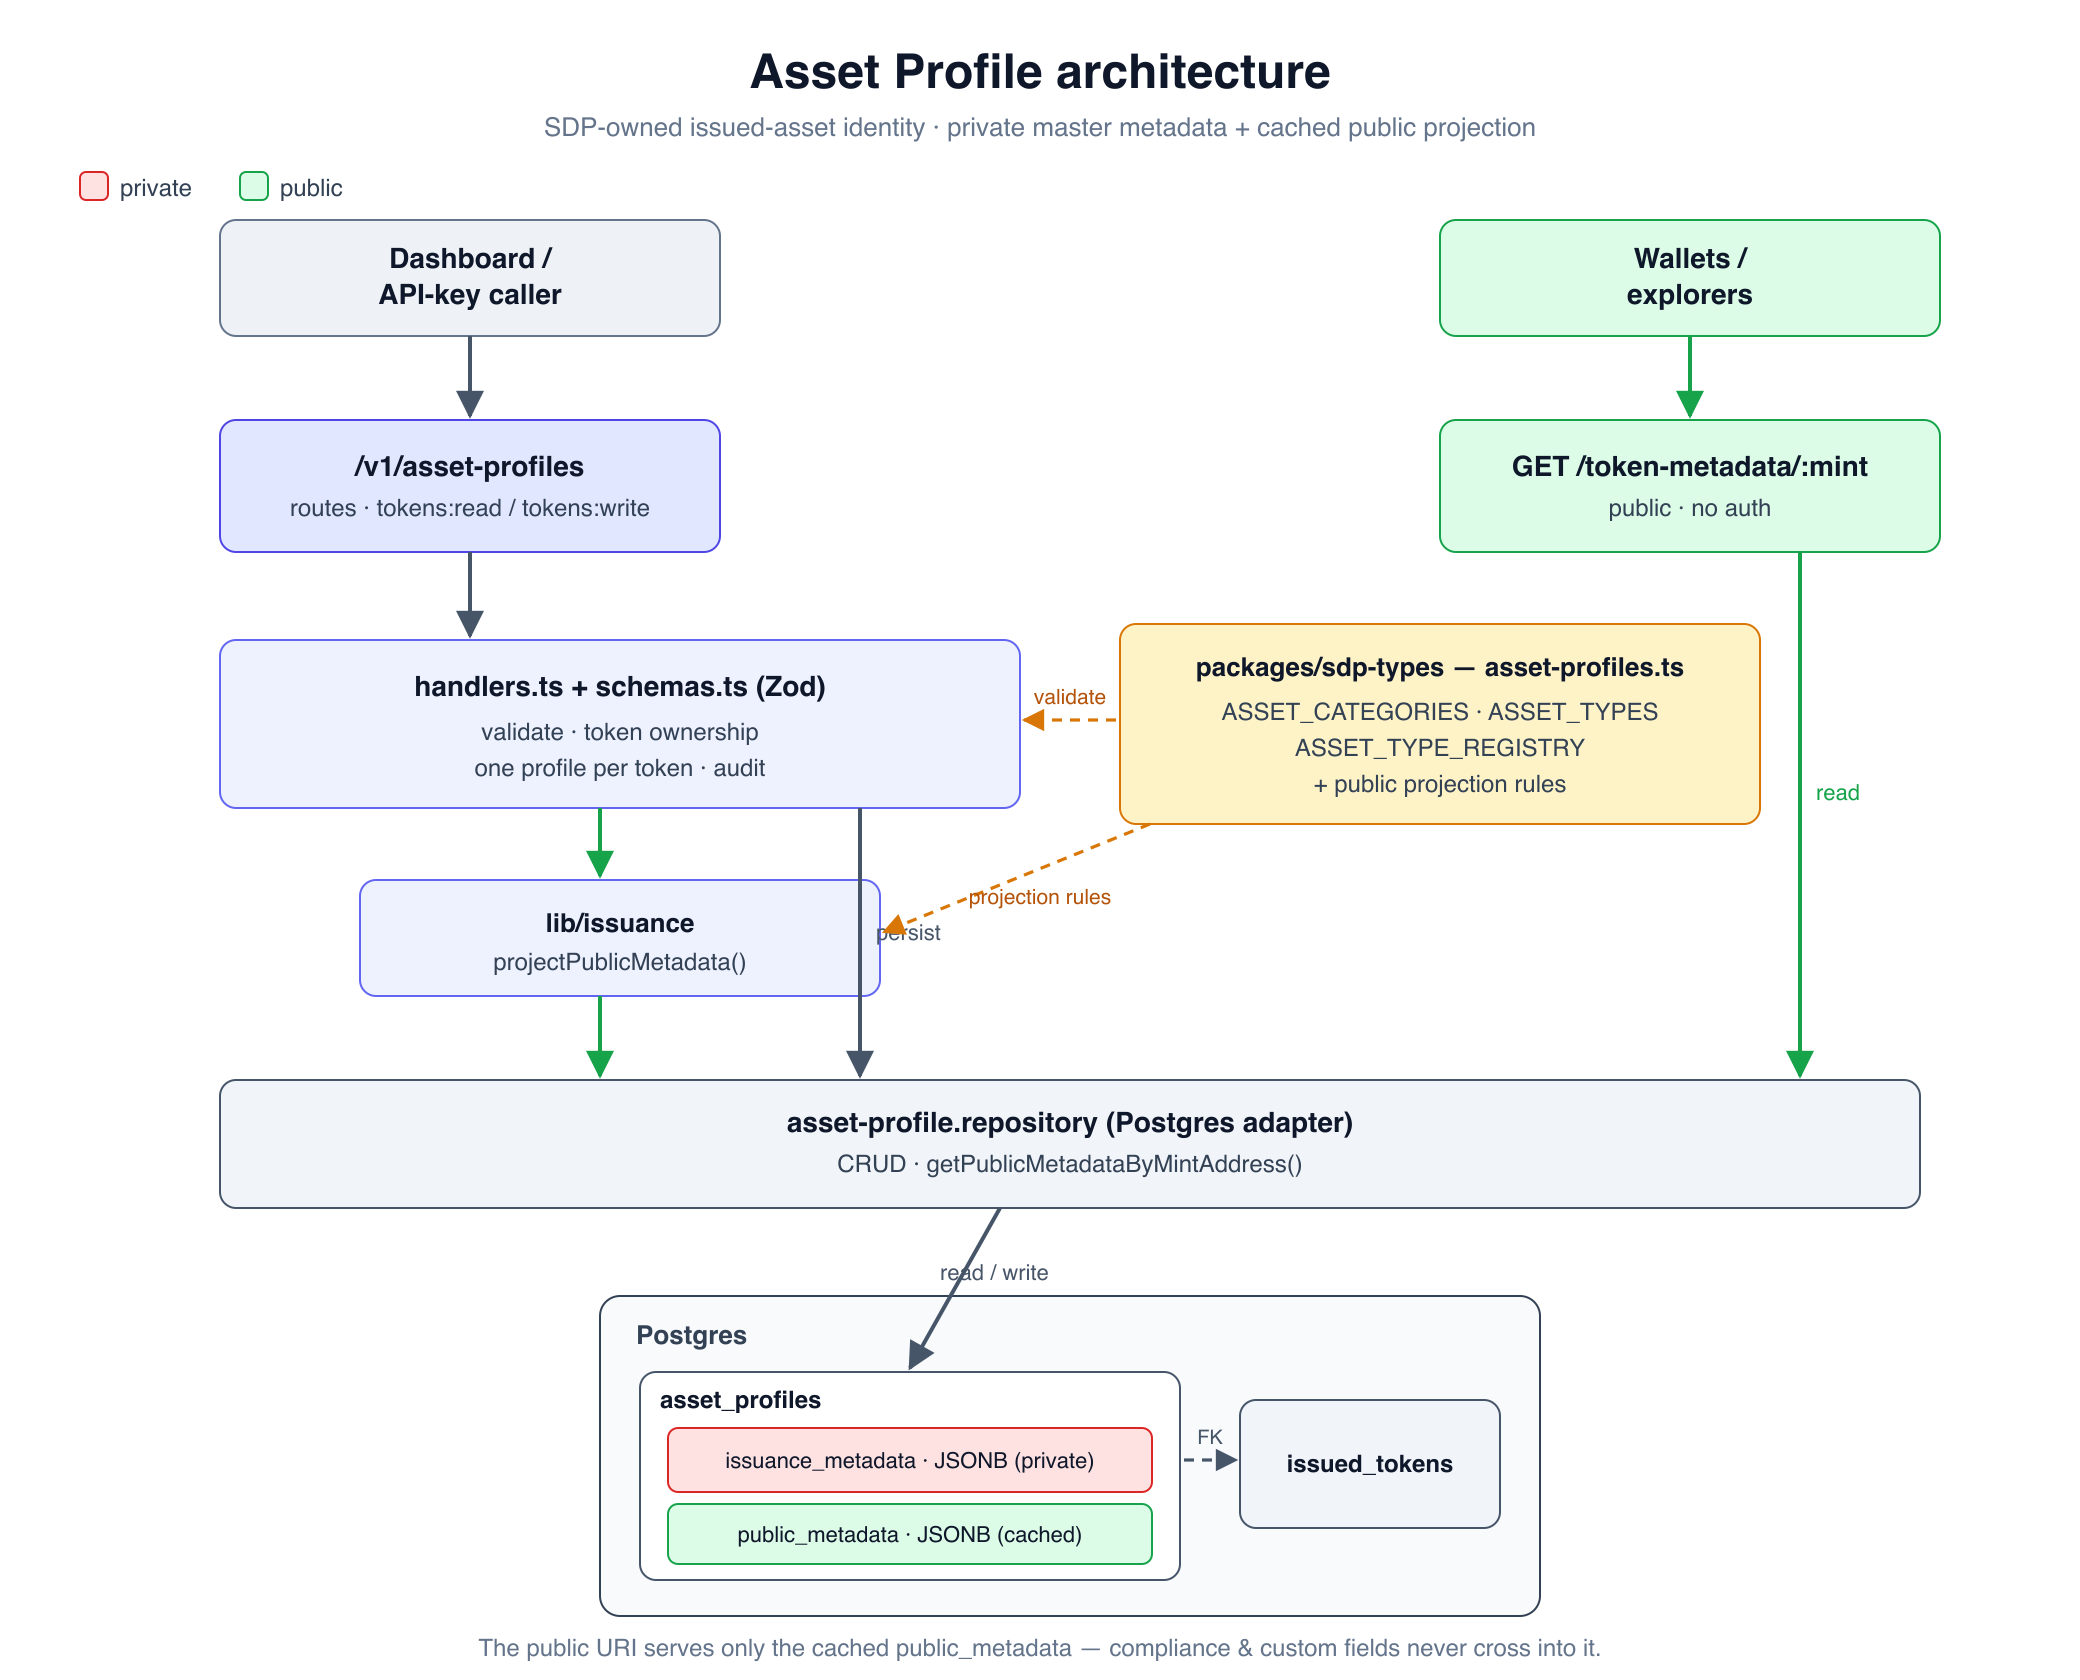
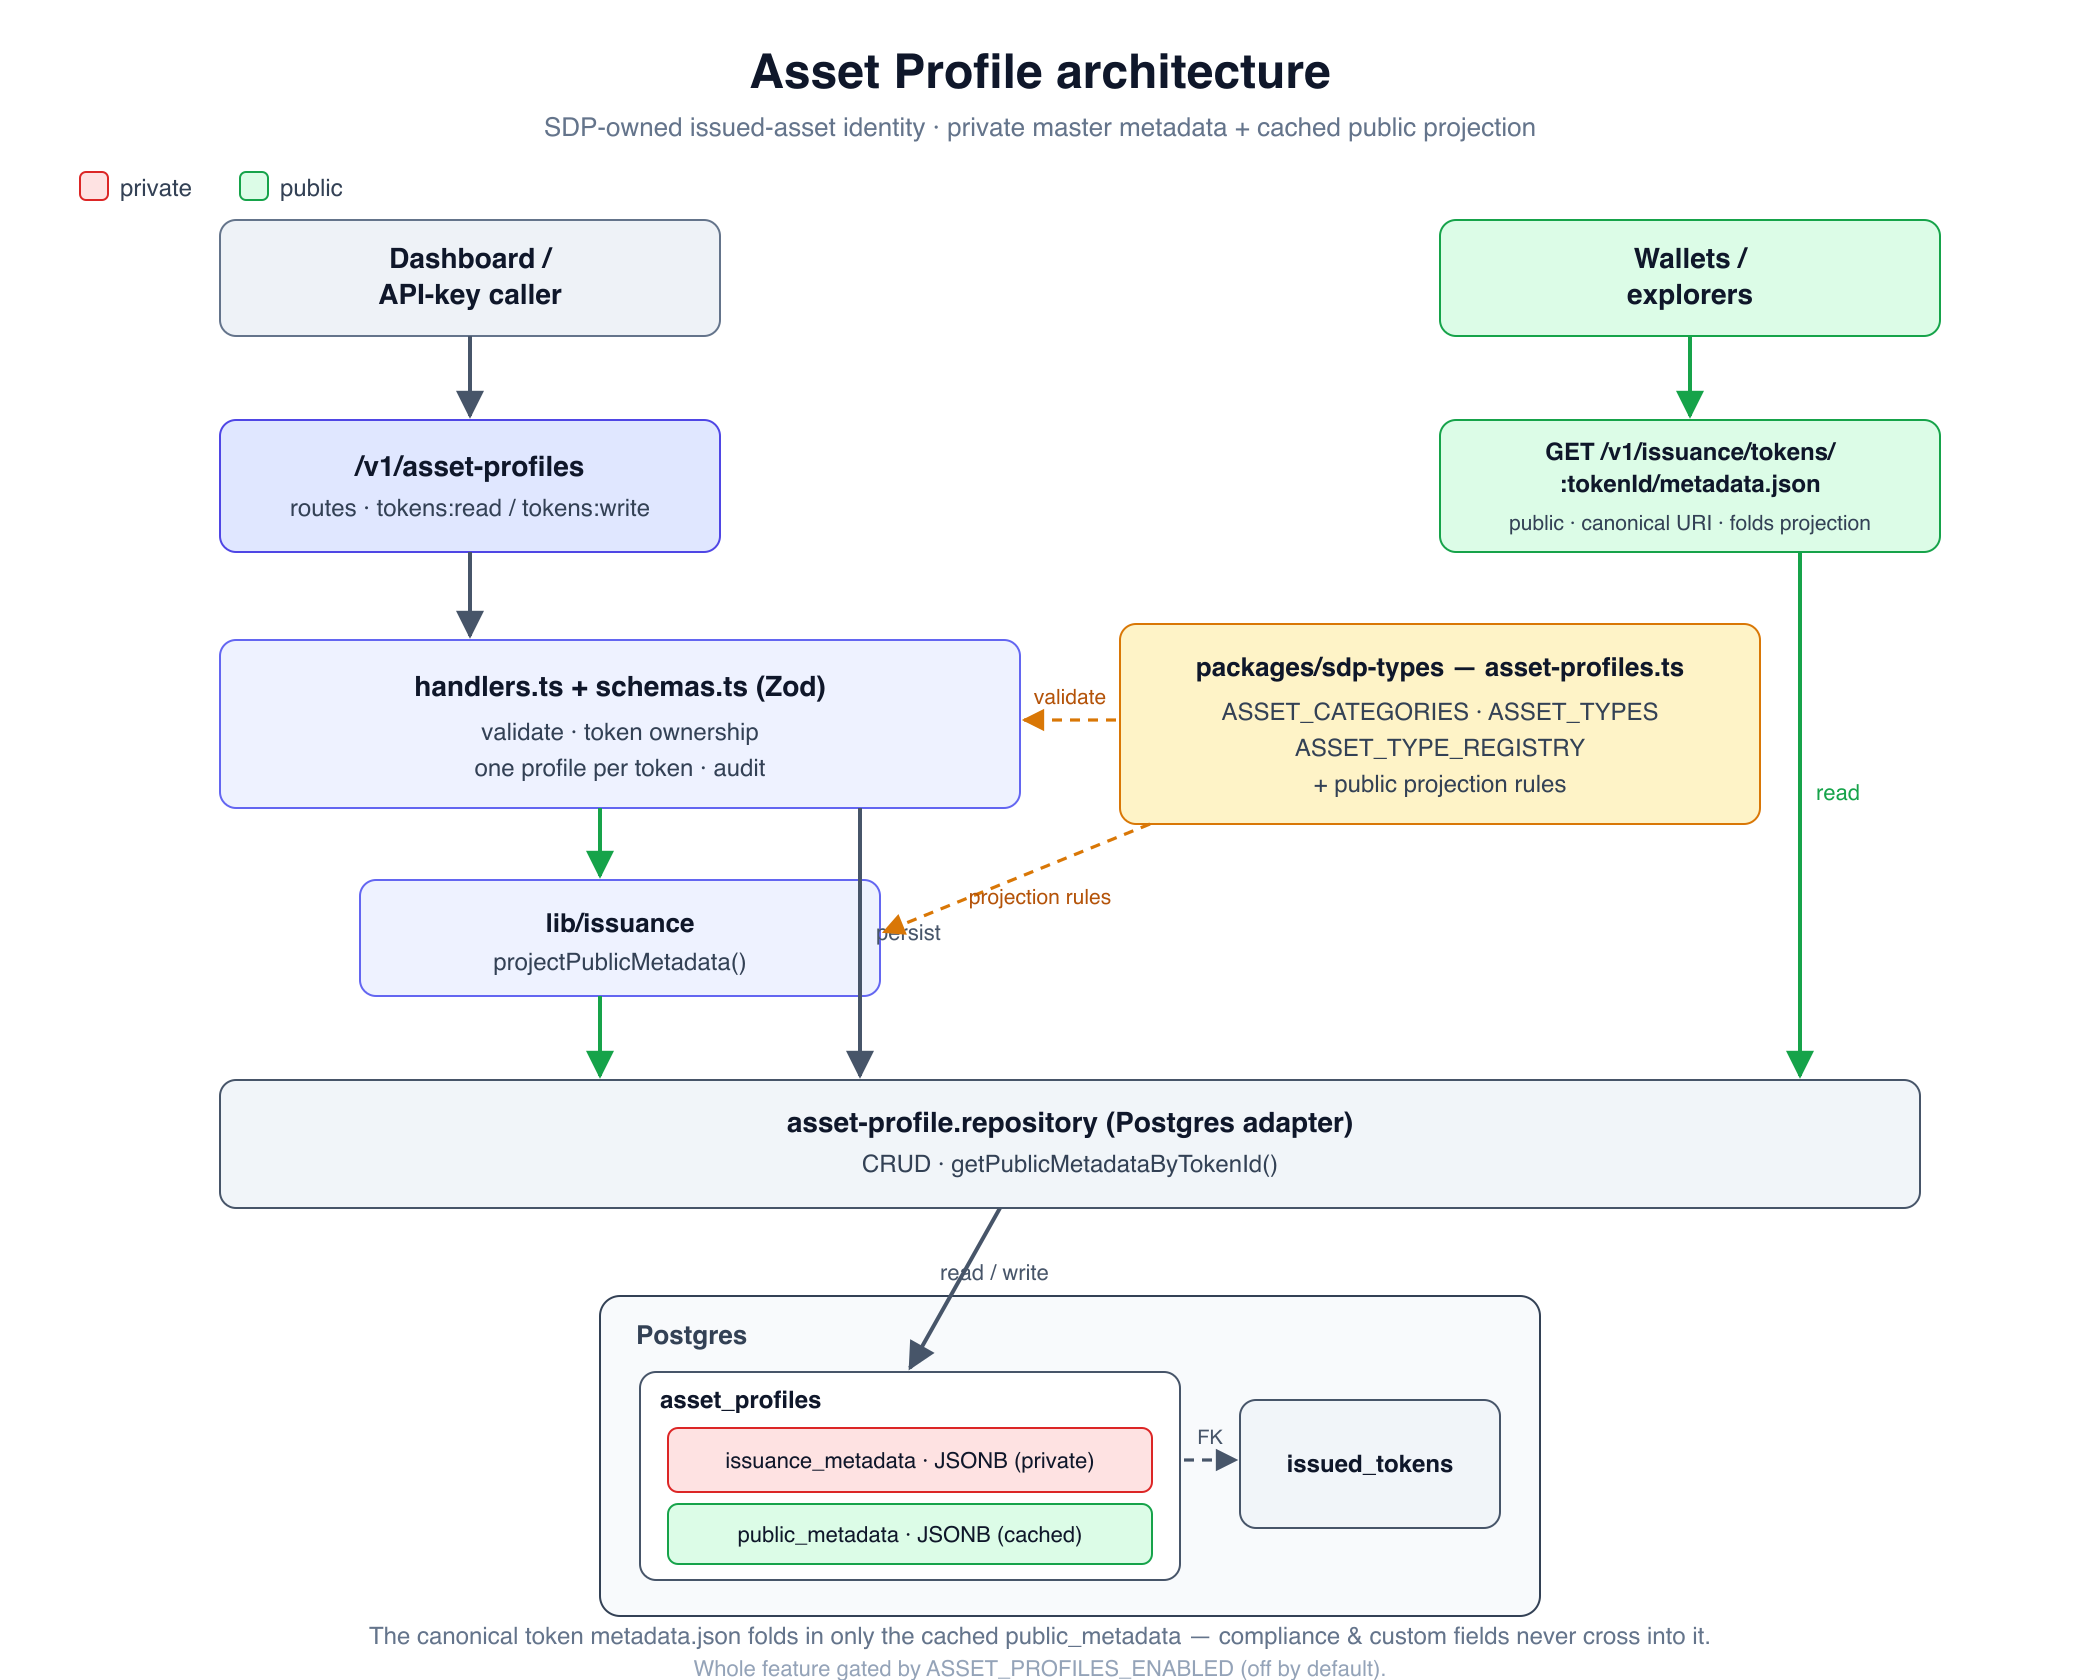
fix: switch to canonical url for public asstet profile metadata, hide asset profiles under feature flag

Changed region(s): [[0.1875, 0.9595, 0.8125, 1.0], [0.7188, 0.2476, 0.9062, 0.3405], [0.4062, 0.681, 0.625, 0.7119]]

diff --git a/apps/sdp-api/src/openapi/paths/asset-profiles.ts b/apps/sdp-api/src/openapi/paths/asset-profiles.ts
@@ -6,8 +6,6 @@ import {
   createAssetProfileRequestSchema,
   errorResponseSchema,
   listAssetProfilesQuerySchema,
-  publicTokenMetadataSchema,
-  solanaAddressSchema,
   updateAssetProfileRequestSchema,
 } from "../schemas";
 import { errorResponses, jsonContent, projectScopeHeaders } from "./helpers";
@@ -155,28 +153,6 @@ export function registerAssetProfilePaths(registry: OpenAPIRegistry) {
         description: "Asset profile archived",
       },
       ...errorResponses(errorResponseSchema, [401, 403, 404, 500]),
-    },
-  });
-
-  registry.registerPath({
-    method: "get",
-    path: "/token-metadata/{mintAddress}",
-    tags: ["Asset Profiles"],
-    summary: "Get public token metadata",
-    operationId: "getPublicTokenMetadata",
-    description:
-      "Public, unauthenticated token metadata URI hosted by SDP. Returns only the safe public metadata subset for a deployed token's mint address. Never exposes private compliance or custom fields.",
-    responses: {
-      200: {
-        description: "Public token metadata document",
-        content: jsonContent(publicTokenMetadataSchema),
-      },
-      ...errorResponses(errorResponseSchema, [400, 404]),
-    },
-    request: {
-      params: z.object({
-        mintAddress: solanaAddressSchema,
-      }),
     },
   });
 }

diff --git a/apps/sdp-api/src/routes/issuance/handlers/metadata.ts b/apps/sdp-api/src/routes/issuance/handlers/metadata.ts
@@ -1,5 +1,7 @@
 import type { Context } from "hono";
 import { getDb } from "@/db";
+import { createAssetProfilesRepository } from "@/db/repositories";
+import { isAssetProfilesEnabled } from "@/lib/feature-flags";
 import { TokenService } from "@/services/token.service";
 import type { Env } from "@/types/env";
 
@@ -91,6 +93,21 @@ export const serveTokenMetadata = async (c: AppContext) => {
   }
   if (metadata.imageUrl) {
     body.image = metadata.imageUrl;
+  }
+
+  // Layer the Asset Profile public projection over the base token fields when
+  // the feature is enabled. The projection only ever contains registry
+  // allow-listed, namespaced fields (asset/chain/...) — never compliance or
+  // custom — and core token fields (name/symbol/...) always win on any overlap.
+  // Gated by the same flag as the Asset Profiles family, so the canonical URI
+  // already burned into deployed tokens serves the projection once it ships.
+  if (isAssetProfilesEnabled(c.env)) {
+    const publicMetadata = await createAssetProfilesRepository(c.env).getPublicMetadataByTokenId(
+      tokenId
+    );
+    if (publicMetadata) {
+      return c.json({ ...publicMetadata, ...body });
+    }
   }
 
   return c.json(body);

diff --git a/apps/sdp-api/src/routes/asset-profiles/index.ts b/apps/sdp-api/src/routes/asset-profiles/index.ts
@@ -1,4 +1,6 @@
-import { Hono } from "hono";
+import { type Context, Hono, type Next } from "hono";
+import { AppError } from "@/lib/errors";
+import { isAssetProfilesEnabled } from "@/lib/feature-flags";
 import { requirePermissions, unifiedAuthMiddleware } from "@/middleware/auth";
 import { projectContextMiddleware } from "@/middleware/project-context";
 import type { Env } from "@/types/env";
@@ -13,6 +15,16 @@ import {
 
 const assetProfiles = new Hono<{ Bindings: Env }>();
 
+// Gate the whole family behind the Asset Profiles feature flag until it is ready
+// for prime time. Off by default; enable per-environment via ASSET_PROFILES_ENABLED.
+async function requireAssetProfilesFeature(c: Context<{ Bindings: Env }>, next: Next) {
+  if (!isAssetProfilesEnabled(c.env)) {
+    throw new AppError("FORBIDDEN", "Asset Profiles are not enabled for this environment");
+  }
+  await next();
+}
+
+assetProfiles.use("*", requireAssetProfilesFeature);
 assetProfiles.use("*", unifiedAuthMiddleware({ allowClerk: true, allowSession: true }));
 assetProfiles.use("*", projectContextMiddleware());
 

diff --git a/apps/sdp-api/src/db/repositories/asset-profile.repository.postgres.ts b/apps/sdp-api/src/db/repositories/asset-profile.repository.postgres.ts
@@ -188,17 +188,16 @@ export function createPostgresAssetProfilesRepository(db: AppDb): AssetProfilesR
       return row ? mapAssetProfileRow(row) : null;
     },
 
-    async getPublicMetadataByMintAddress(mintAddress: string) {
+    async getPublicMetadataByTokenId(tokenId: string) {
       const row = await db
         .prepare(
-          `SELECT ap.public_metadata
-             FROM asset_profiles ap
-             JOIN issued_tokens t ON t.id = ap.token_id
-            WHERE t.mint_address = ?
-              AND ap.status = 'active'
+          `SELECT public_metadata
+             FROM asset_profiles
+            WHERE token_id = ?
+              AND status = 'active'
             LIMIT 1`
         )
-        .bind(mintAddress)
+        .bind(tokenId)
         .first<{ public_metadata: PublicTokenMetadata }>();
       return row ? row.public_metadata : null;
     },

diff --git a/apps/sdp-api/src/db/repositories/asset-profile.repository.ts b/apps/sdp-api/src/db/repositories/asset-profile.repository.ts
@@ -88,8 +88,9 @@ export interface AssetProfilesRepository {
     organizationId: string;
     projectId: string;
   }): Promise<AssetProfileRow | null>;
-  // Used by the public, unauthenticated token metadata URI endpoint. Resolves by
-  // mint address alone (public surface) and returns only the cached public_metadata.
-  getPublicMetadataByMintAddress(mintAddress: string): Promise<PublicTokenMetadata | null>;
+  // Used by the public, unauthenticated canonical token metadata URI
+  // (/v1/issuance/tokens/:tokenId/metadata.json). Keyed by tokenId to match that
+  // route, and returns only the active profile's cached public_metadata.
+  getPublicMetadataByTokenId(tokenId: string): Promise<PublicTokenMetadata | null>;
   listAssetProfiles(params: ListAssetProfilesInput): Promise<ListAssetProfilesResult>;
 }

diff --git a/apps/sdp-api/src/lib/feature-flags.ts b/apps/sdp-api/src/lib/feature-flags.ts
@@ -8,3 +8,7 @@ function isTruthyFlag(value: string | undefined): boolean {
 export function isRecurringPaymentsEnabled(env: Pick<Env, "PAYMENTS_RECURRING_ENABLED">): boolean {
   return isTruthyFlag(env.PAYMENTS_RECURRING_ENABLED);
 }
+
+export function isAssetProfilesEnabled(env: Pick<Env, "ASSET_PROFILES_ENABLED">): boolean {
+  return isTruthyFlag(env.ASSET_PROFILES_ENABLED);
+}

diff --git a/apps/sdp-api/src/app.ts b/apps/sdp-api/src/app.ts
@@ -38,7 +38,6 @@ import organizations from "@/routes/organizations";
 import payments from "@/routes/payments";
 import places from "@/routes/places";
 import projects from "@/routes/projects";
-import publicTokenMetadata from "@/routes/public-token-metadata";
 import rpc from "@/routes/rpc";
 import webhooks from "@/routes/webhooks";
 import { isSentryEnabled, type Observability } from "@/runtime/observability";
@@ -215,8 +214,6 @@ export function createApp(deps: AppDeps): Hono<{ Bindings: Env }> {
   app.route("/docs", docs);
   app.route("/llms.txt", llms);
   app.route("/webhooks", webhooks);
-  // Public token metadata URI host (no auth) — serves the safe public subset.
-  app.route("/token-metadata", publicTokenMetadata);
 
   // API v1
   const v1 = new Hono<{ Bindings: Env }>();

diff --git a/apps/sdp-api/src/types/env.d.ts b/apps/sdp-api/src/types/env.d.ts
@@ -180,6 +180,9 @@ export interface Env {
   // Recurring payments backend feature flag
   PAYMENTS_RECURRING_ENABLED?: string;
 
+  // Asset Profiles backend feature flag
+  ASSET_PROFILES_ENABLED?: string;
+
   // Compliance providers
   RANGE_API_KEY?: string;
   RANGE_API_BASE_URL?: string;

diff --git a/apps/sdp-docs/scripts/generate-ai-resources.ts b/apps/sdp-docs/scripts/generate-ai-resources.ts
@@ -47,6 +47,7 @@ const FEATURE_SUMMARY = [
   "Token issuance and lifecycle operations",
   "Payments, transfers, and ramps",
   "Compliance screening",
+  "Asset profiles and public token metadata",
 ];
 
 const KEY_PAGE_SLUGS = [
@@ -73,6 +74,7 @@ const KEY_PAGE_SLUGS = [
   "reference/api/issuance",
   "reference/api/payments",
   "reference/api/compliance",
+  "reference/api/asset-profiles",
 ];
 
 function stripMarkdownFormatting(value: string): string {